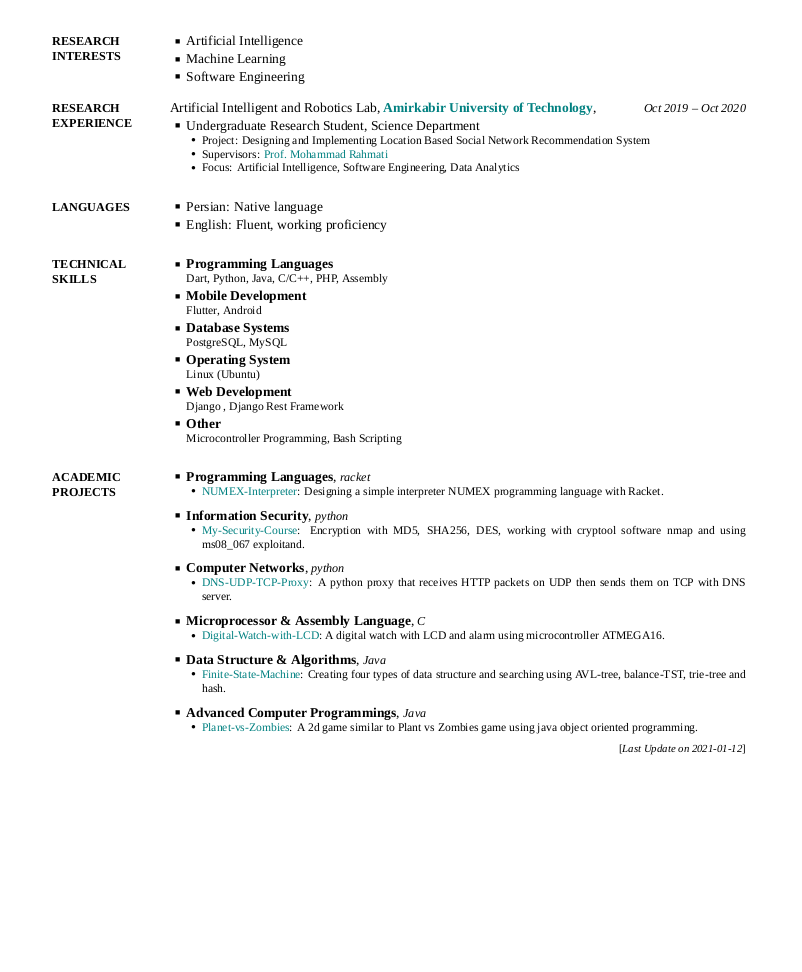
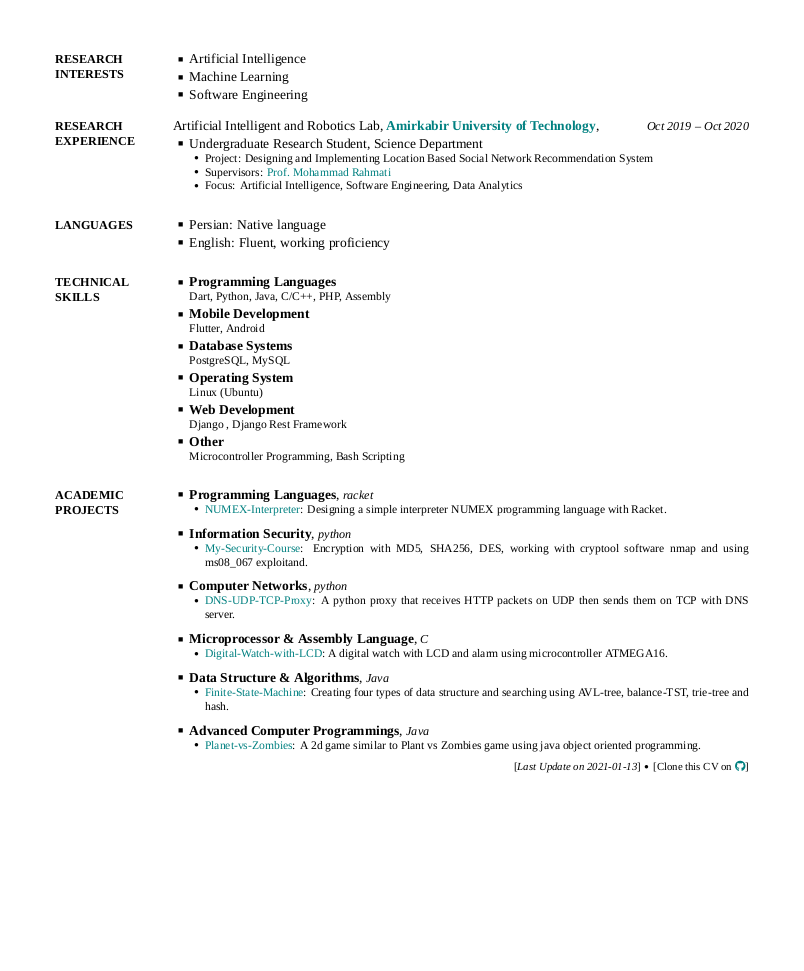
add clone and fix a typo

diff --git a/MAYazdiCV.tex b/MAYazdiCV.tex
@@ -163,7 +163,7 @@ Working as a flutter developer team leader to launch the application in three mo
 \Gap
 \small{\textit{Flutter, Drupal, Laravel, MySQL}}
 \BulletItem
-Working as mobile application team leader at one of the most popular sport social media.
+Working as a mobile application team leader at one of the most popular sport social media.
 \hfill
 \normalsize{
 \href{https://play.google.com/store/apps/details?id=com.tarafdari.news}
@@ -171,10 +171,10 @@ Working as mobile application team leader at one of the most popular sport socia
 \begin{Detail}
 \SubBulletItem
 R\&D about Flutter framework and migrating the android application to Flutter
-application that is including multimedia content,
-live score matches, sports TV streaming with live chat on the socket.
+application includes multimedia content,
+live score matches, and sports TV streaming with live chat on the socket.
 \SubBulletItem
-We could reach more than 200k active users on theGoogle Play Storeafter migrating to the flutter.
+We could reach more than 200k active users on the Google Play Store after migrating to the flutter.
 \end{Detail}
 
 %%%%%%%%%%%%%%%
@@ -780,7 +780,12 @@ using java object oriented programming.
 
 \UseNoteFont
 \BigGap
-\hfill[\textit{\CVNote}]
+\hfill
+[\textit{\CVNote}]
+\SubBulletSymbol\,
+[Clone this CV on
+\href{https://github.com/aliyazdi75/Resume}
+{\faGithub}]
 
 \end{Body}
 \end{document}
